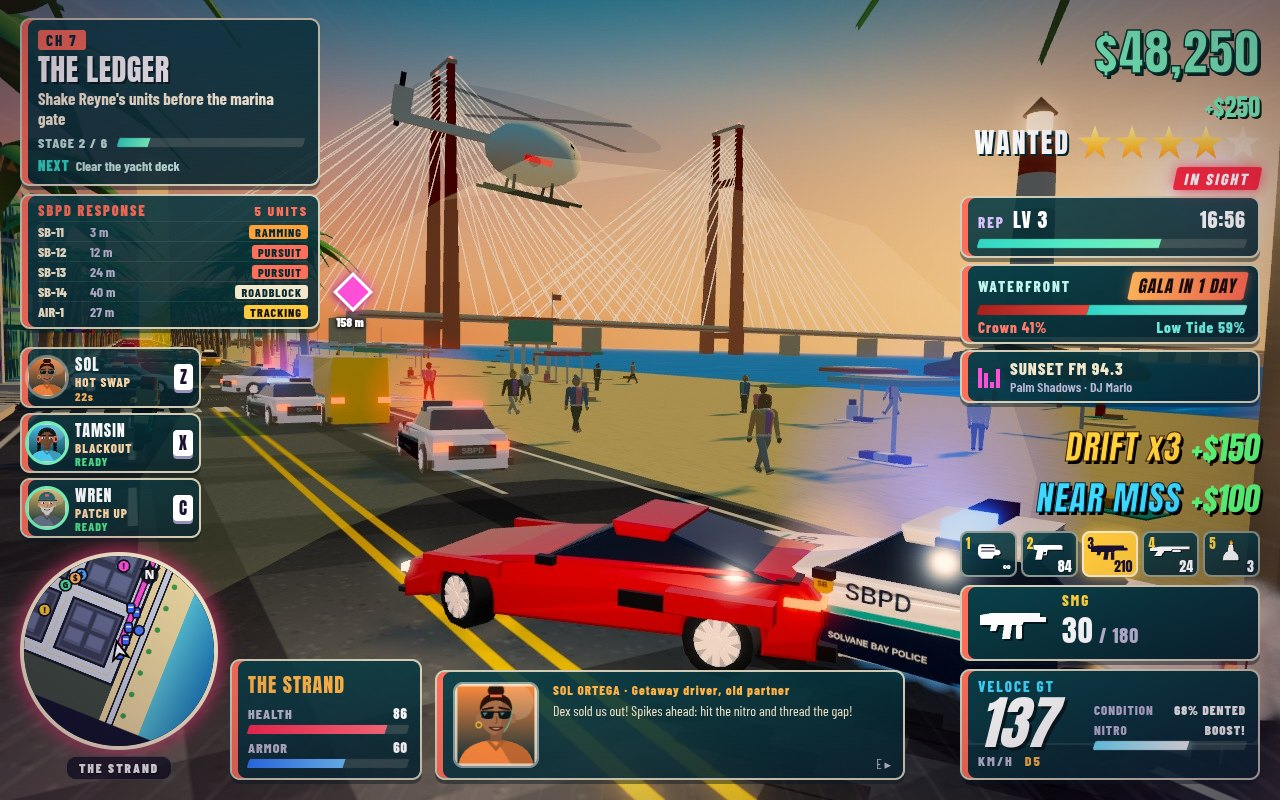
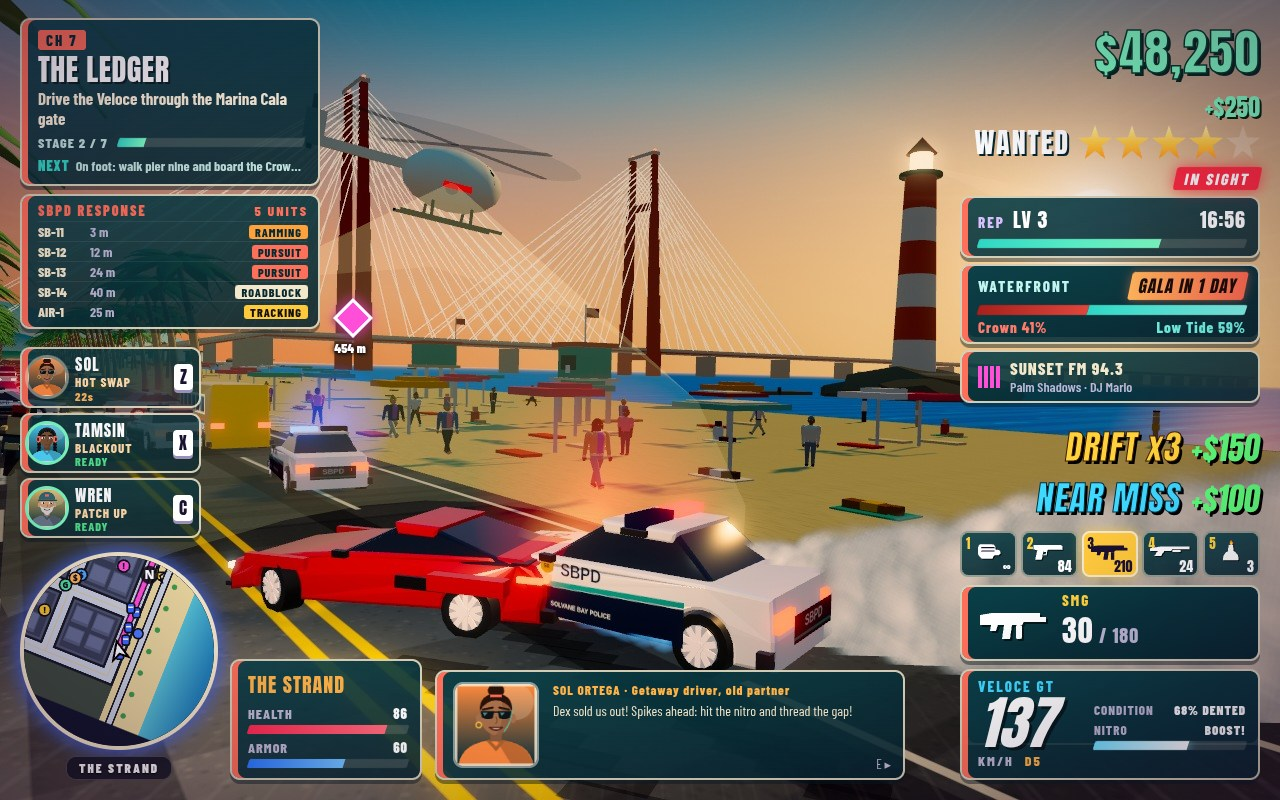
Fixes: cover restaged so the ramming SBPD cruiser is fully clear of the HUD cards, visible translucent tyre smoke off the drifting Veloce, lifeguard towers and umbrella clusters close to the Strand road, objective text matches the real chapter 7 stage, Brandt's Veloce is red in the story as on the c

diff --git a/game/src/shots/screenshotScenes.js b/game/src/shots/screenshotScenes.js
@@ -61,25 +61,25 @@ function chase(api) {
   // beach-goers on the sand turning to watch
   for (const [u, v, yw] of [[14, 16, -1.2], [22, 22, -1.6], [30, 14, -0.9], [18, 28, -1.9], [40, 24, -1.4], [8, 20, -1.0], [48, 32, -1.7]]) { const [x, z] = T(u, v), a = createActor('ped', x, z, randomStyle(rnd), { yaw: yw }); animateWalk(a.mesh, x * 0.7, u % 3 ? 0 : 0.6, false); a.mesh.position.set(x, 0, z); a.mesh.rotation.y = yw; }
   // camera low beside and behind the left rear, looking north-east so the car crosses the frame against the sea and the Causeway
-  const [px, pz] = T(-7.4, -3.2), [lx, lz] = T(20, 14.6), camY = 3.1;
+  const [px, pz] = T(-10.6, -3.0), [lx, lz] = T(20, 21.5), camY = 3.4;
   thinPalms(px, pz, 10, 62, 10);
   // AIR-1 side-on in open sky between the city and the first pylon, its searchlight on the car
   { const b = 25 * Math.PI / 180, d = 36, hx = px + Math.sin(b) * d, hz = pz - Math.cos(b) * d; G.heli = createHeli(hx, hz); G.heli.y = 11.5; G.heli.mesh.position.set(hx, 11.5, hz);
     G.heli.mesh.rotation.order = 'YXZ'; G.heli.mesh.rotation.set(0.14, Math.PI - (b + 1.35), 0.16); G.heli.rotor.rotation.y = 0.5; placeCone(G.heli, car.x, car.z); } G.shotLock = true;
-  { const { x, z } = MARINA_GATE; addMarker({ x, z, kind: 'obj', label: 'Marina gate', color: 0xffd23c, auto: false }); } setStars(4); G.wanted.heat = 4.3; fakeMission(6, 1, 'Shake Reyne\'s units before the marina gate', 0);
+  { const { x, z } = MARINA_GATE; addMarker({ x, z, kind: 'obj', label: 'Marina gate', color: 0xffd23c, auto: false }); } setStars(4); G.wanted.heat = 4.3; fakeMission(6, 1, MISSIONS[6].stages[1].text, 0);
   for (const c of G.cars) { c.mesh.position.set(c.x, 0, c.z); c.mesh.rotation.y = c.heading; for (const w of c.mesh.userData.fw || []) w.rotation.y = c.steerA * 0.9; }
   updateSirens(0.1); updateLineOfSight(1);
   // the drift so far: twin skid marks curving in from the right behind the rear wheels; tyre smoke rolls off away from the camera
   for (let k = 0; k < 60; k++) { const q = k / 60, u = -2 - q * 30, v = 1.4 + q * q * 3.5, h = Math.PI / 2 + DRIFT * (1 - q) - 0.15 * q; for (const sg of [-1, 1]) { const [x, z] = T(u + Math.cos(h) * sg * 0.85, v - Math.sin(h) * sg * 0.85); skidMark(x, z, H(h)); } }
   const sn = Math.sin(car.heading), cs = Math.cos(car.heading), rx = car.x - sn * 1.45, rz = car.z - cs * 1.45;
-  for (let k = 0; k < 8; k++) { const back = k * 0.55; particle({ x: rx + 1.2 + back * 0.5, y: 0.3 + k * 0.06, z: rz + 0.8 + back, life: 1.4, size: 0.8 + k * 0.2, color: 0xfff0e4, hdr: 1.3, op: 0.3 - k * 0.025, tex: 'puff' }); }
+  for (let k = 0; k < 12; k++) { const back = k * 0.6; particle({ x: rx + 1.3 + back * 0.55, y: 0.35 + k * 0.08, z: rz + 1.0 + back, life: 1.4, size: 1.1 + k * 0.3, color: 0xfff4ec, hdr: 1.35, op: 0.42 - k * 0.028, tex: 'puff' }); }
   for (let k = 0; k < 6; k++) particle({ x: car.x - sn * 2.55, y: 0.33, z: car.z - cs * 2.55 + k * 0.35, life: 0.3, size: 0.8 - k * 0.08, color: 0x7fc8ff, add: true, hdr: 1.6 });
   // the ram: sparks where the cruiser's push bar meets the right rear quarter
   { const hx = rx + 0.9, hz = rz + 0.4; sparks(hx, 0.7, hz, 30); sparks(hx, 0.55, hz, 16); particle({ x: hx, y: 0.75, z: hz, life: 1, size: 1.8, color: 0xffc070, add: true }); }
   G.money = 48000; api.updateHud(0.016); popup('DRIFT x3', 150, 'drift'); popup('NEAR MISS', 100, 'near');
   say({ who: 'sol', text: 'Dex sold us out! Spikes ahead: hit the nitro and thread the gap!' }); typed();
   G.exposure = 1.05; if (G.post) Object.assign(G.post.params, { bloom: 0.3, threshold: 1.25, vignette: 0.3 });
-  G.shotCam = { pos: [px, camY, pz], look: [lx, 0.9, lz], fov: 54, roll: 0.025 };
+  G.shotCam = { pos: [px, camY, pz], look: [lx, 1.9, lz], fov: 54, roll: 0.025 };
   const rim = new THREE.PointLight(0xffe0c0, 50, 14, 1.6); { const [x, z] = T(-3, -2); rim.position.set(x, 3.2, z); } G.scene.add(rim);
   finish(api); }
 // Chapter 7, The Ledger: Nico runs the stolen ledger out of Marina Cala in the Skipjack speedboat, banking hard with a

diff --git a/game/src/missions/storyMissions.js b/game/src/missions/storyMissions.js
@@ -34,8 +34,8 @@ export const MISSIONS = [
     stages: [{ type: 'goto', at: MARINA, r: 40, text: "Meet Dex's buyer at the Marina Cala docks" }, { type: 'kill', at: MARINA, count: 5, gang: 'brandt', text: "It's a setup: survive Brandt's ambush" }, { type: 'escape', stars: 4, text: "Reyne's units are on the pier: lose 4 stars" }, { type: 'goto', at: corner(1, 4, 1, 1), r: 7, car: 'any', text: 'Reach the Point Wren safehouse' }],
     outro: [{ who: 'dex', text: 'Nothing personal, Nico. Brandt offered a seat at the Gala. You offered a bad week.' }, { who: 'sol', text: "Dex just sold you for a dinner invitation. We still have four days. Let's make them count." }] },
   { id: 'm7', chapter: 7, title: 'THE LEDGER', giver: 'tamsin', start: corner(2, 2, 1, 1), reward: { money: 4200, xp: 620 },
-    intro: [{ who: 'tamsin', text: "Brandt writes every bribe down. Old habit. The ledger lives in the safe on his yacht, the Crown Jewel, at Marina Cala." }, { who: 'wren', text: 'His blue Veloce GT has a dock pass on the dash. Guards wave it straight through.' }, { who: 'sol', text: 'I will wait at the Point Wren light. Come by sea, the roads will be crawling.' }, { who: 'nico', text: 'Steal his car, rob his boat, borrow his speedboat. Gentle start to the week.' }],
-    stages: [{ type: 'steal', key: 'veloce', tint: 0x2f7fd8, at: { ...P(4, 4, 5.4, 22), h: 0 }, text: "Steal Brandt's blue Veloce GT", stars: 1 }, { type: 'goto', at: MARINA_GATE, r: 10, car: 'mission', text: 'Drive the Veloce through the Marina Cala gate' },
+    intro: [{ who: 'tamsin', text: "Brandt writes every bribe down. Old habit. The ledger lives in the safe on his yacht, the Crown Jewel, at Marina Cala." }, { who: 'wren', text: 'His red Veloce GT has a dock pass on the dash. Guards wave it straight through.' }, { who: 'sol', text: 'I will wait at the Point Wren light. Come by sea, the roads will be crawling.' }, { who: 'nico', text: 'Steal his car, rob his boat, borrow his speedboat. Gentle start to the week.' }],
+    stages: [{ type: 'steal', key: 'veloce', tint: 0xd01020, at: { ...P(4, 4, 5.4, 22), h: 0 }, text: "Steal Brandt's red Veloce GT", stars: 1 }, { type: 'goto', at: MARINA_GATE, r: 10, car: 'mission', text: 'Drive the Veloce through the Marina Cala gate' },
       { type: 'goto', at: GANGWAY, r: 3, foot: true, text: 'On foot: walk pier nine and board the Crown Jewel' }, { type: 'kill', at: YACHT, spots: GUARD_SPOTS, count: 4, gang: 'brandt', text: "Take out Brandt's deck guards" },
       { type: 'collect', pts: [SAFE], text: 'Crack the safe on the aft deck: grab the ledger' }, { type: 'boat', stars: 3, text: 'Alarm! Jump in the speedboat at the end of pier nine', ...boardSpeedboat },
       { type: 'goto', at: DROP, r: 10, car: 'boat', text: 'Outrun the harbour launches: run the ledger to Sol at the Point Wren light', ...boatEscape }],

diff --git a/game/src/vehicles/vehicleModels.js b/game/src/vehicles/vehicleModels.js
@@ -170,6 +170,20 @@ function sportRear(grp, key) {
     grp.add(f);
   }
 }
+// TIDE BUS minibus detail: a band of side windows with cream pillars, lit amber TIDE BUS destination boards front and
+// rear, and a teal waistline stripe.
+let busWinTex = null, busBoardTex = null;
+function busDetail(grp, t) {
+  busWinTex ||= canvasTex(512, 64, (g) => { g.fillStyle = '#f6ead2'; g.fillRect(0, 0, 512, 64); for (let k = 0; k < 6; k++) { const gr = g.createLinearGradient(0, 4, 0, 60); gr.addColorStop(0, '#2c6f80'); gr.addColorStop(1, '#0f3440'); g.fillStyle = gr; g.fillRect(8 + k * 84, 6, 74, 52); g.fillStyle = 'rgba(255,255,255,0.25)'; g.fillRect(14 + k * 84, 10, 20, 44); } });
+  busBoardTex ||= canvasTex(256, 56, (g) => { g.fillStyle = '#141414'; g.fillRect(0, 0, 256, 56); g.fillStyle = '#ffb21c'; g.font = 'bold 40px Arial Black, Arial, sans-serif'; g.textAlign = 'center'; g.textBaseline = 'middle'; g.fillText('TIDE BUS', 128, 30); });
+  const win = new THREE.MeshBasicMaterial({ map: busWinTex }), board = new THREE.MeshBasicMaterial({ map: busBoardTex, toneMapped: false }), stripe = new THREE.MeshLambertMaterial({ color: 0x1fa8a0 });
+  for (const sd of [-1, 1]) {
+    const w = new THREE.Mesh(new THREE.PlaneGeometry(5.3, 0.72), win); w.position.set(sd * (t.wid / 2 + 0.025), 1.78, -0.35); w.rotation.y = sd * Math.PI / 2; grp.add(w);
+    const s = new THREE.Mesh(new THREE.PlaneGeometry(6.3, 0.2), stripe); s.position.set(sd * (t.wid / 2 + 0.025), 0.62, 0); s.rotation.y = sd * Math.PI / 2; grp.add(s);
+  }
+  const f = new THREE.Mesh(new THREE.PlaneGeometry(1.5, 0.33), board); f.position.set(0, 2.2, 2.93); f.rotation.x = -0.18; grp.add(f);
+  const r = new THREE.Mesh(new THREE.PlaneGeometry(1.3, 0.3), board); r.position.set(0, 2.1, -3.27); r.rotation.y = Math.PI; grp.add(r);
+}
 export function buildCarMesh(key, tint) {
   const g = geoCache[key] || (geoCache[key] = build(key)); const t = CAR_TYPES[key], m = sharedMats();
   const c = t.police ? t.tint : key === 'tupelo' || key === 'tidebus' ? t.tint : tint ?? t.tint;
@@ -190,6 +204,7 @@ export function buildCarMesh(key, tint) {
     grp.userData.bar = { r: bar(0xff3040, -0.38), b: bar(0x4080ff, 0.38) };
   }
   if (key === 'tidebus') { const bm = new THREE.MeshBasicMaterial({ map: busTex() }); for (const sd of [-1, 1]) { const b = new THREE.Mesh(new THREE.PlaneGeometry(5.2, 0.5), bm); b.position.set(sd * (t.wid / 2 + 0.02), 1.0, -0.3); b.rotation.y = sd * Math.PI / 2; grp.add(b); } }
+  if (key === 'tidebus') busDetail(grp, t);
   if (key === 'tupelo') { const s = new THREE.Mesh(new THREE.BoxGeometry(0.8, 0.26, 0.3), new THREE.MeshBasicMaterial({ map: taxiTex() })); s.position.set(0, t.roof + 0.18, -0.3); grp.add(s); }
   return grp;
 }

diff --git a/game/src/world/beachAndSea.js b/game/src/world/beachAndSea.js
@@ -21,6 +21,13 @@ export function buildBeachAndSea(scene, rng) {
     pushBox(B, x, 0, z, 0.12, 2.4, 0.12, 0xeeeeee); pushBox(B, x, 2.3, z, 2.8, 0.3, 2.8, c); pushBox(B, x + 2.2, 0.05, z, 0.9, 0.12, 2.0, 0xffe9c0); }
   for (let k = 0; k < 3; k++) { const x = lineCoord(1) + k * 90, z = lineCoord(0) + 20;
     for (const dx of [-8, 8]) pushBox(B, x + dx, 0, z, 1.2, 30, 1.2, 0xe8a030); pushBox(B, x, 28, z, 20, 1.5, 1.5, 0xe8a030); pushBox(B, x, 26, z + 14, 1.5, 1.5, 28, 0xe8a030); }
+  // lifeguard towers (teal hut, coral roof, on stilts with a ramp) and umbrella clusters close to the Strand road
+  for (const z of [232, 96, -30]) { const x = HALF + 25;
+    for (const dx of [-1.1, 1.1]) for (const dz of [-1.1, 1.1]) pushBox(B, x + dx, 0, z + dz, 0.25, 2.6, 0.25, 0xf6ead2);
+    pushBox(B, x, 2.6, z, 3.2, 0.2, 3.2, 0xf6ead2); pushBox(B, x, 2.8, z, 2.4, 1.9, 2.4, 0x2fb8a8); pushBox(B, x - 1.21, 3.3, z, 0.02, 0.9, 1.7, 0x17404a); pushBox(B, x, 4.7, z, 3.0, 0.3, 3.0, 0xe8604c);
+    pushBox(B, x - 1.25, 3.1, z, 0.03, 0.5, 0.5, 0xffffff); pushBox(B, x + 2.8, 0, z, 3.2, 0.15, 1.0, 0xc8a070); pushBox(B, x, 5.0, z, 0.08, 2.4, 0.08, 0xffffff); pushBox(B, x + 0.5, 6.6, z, 1.0, 0.6, 0.05, 0xe8604c); }
+  [[14, 246, 0xff5a7a], [19, 240, 0x2fc4b2], [12, 236, 0xffb02e], [30, 250, 0xffffff], [21, 222, 0xff5a7a], [15, 214, 0x2fc4b2], [32, 238, 0xffb02e], [11, 204, 0xff5a7a]].forEach(([dx, z, c]) => { const x = HALF + dx;
+    pushBox(B, x, 0, z, 0.12, 2.4, 0.12, 0xeeeeee); pushBox(B, x, 2.3, z, 2.8, 0.3, 2.8, c); pushBox(B, x + 0.4, 2.6, z, 1.6, 0.2, 1.6, c); pushBox(B, x + 2.0, 0.05, z - 0.6, 0.9, 0.12, 2.0, z % 2 ? 0x2fb8a8 : 0xffe9c0); pushBox(B, x - 1.9, 0.05, z + 0.4, 0.9, 0.12, 2.0, 0xe8604c); });
   const m = new THREE.Mesh(toGeometry(B), new THREE.MeshLambertMaterial({ vertexColors: true })); m.castShadow = true; scene.add(m);
   // Smooth layered coastal hills: rounded ridgelines (sum of sines), pale far layers fading into the haze.
   const LAYERS = [[860, 330, 0x9cc8c4, 0xf2cdb0], [740, 250, 0x72aeb0, 0xdcb8a0], [650, 175, 0x3f8890, 0xa8b4a4], [590, 105, 0x2f7a62, 0x7fa58c]] // teal ridgelines into warm haze;

diff --git a/game/src/world/landmarks.js b/game/src/world/landmarks.js
@@ -113,13 +113,13 @@ function lagoonMarket(scene, B, rng) {
   water.position.set(x, 0.12, z); scene.add(water);
   for (const [dx, dz, w, d] of [[0, -24.5, 50, 1], [0, 24.5, 50, 1], [-24.5, 0, 1, 50], [24.5, 0, 1, 50]]) pushBox(B, x + dx, 0, z + dz, w, 0.7, d, 0xd8c8a6); // stone rim
   addBox({ x0: x - 25, x1: x + 25, z0: z - 25, z1: z + 25, h: 1.2 });
-  const STRIPES = [[0xe8604c, 0xfff4e0], [0x2fb8a8, 0xfff4e0], [0xf2b33a, 0xfff4e0], [0x3a8fd0, 0xfff4e0]], WALLS = [0xf7c59f, 0x8fd3c8, 0xf4a6a0, 0xf6e3b4, 0xb8e0b0, 0xfff4e6];
+  const STRIPES = [[0xe8604c, 0xfff4e0, 0x2fb8a8], [0x2fb8a8, 0xfff4e0, 0xe8604c], [0xe8604c, 0x2fb8a8, 0xfff4e0], [0x2fb8a8, 0xe8604c, 0xfff4e0]], WALLS = [0xf7c59f, 0x8fd3c8, 0xf4a6a0, 0xf6e3b4, 0xb8e0b0, 0xfff4e6];
   const stalls = [[-14, -13], [0, -15], [14, -13], [-14, 6], [14, 6], [0, 12]];
   stalls.forEach(([dx, dz], i) => {
-    const cx = x + dx, cz = z + dz, [a, b] = STRIPES[i % 4];
+    const cx = x + dx, cz = z + dz, [a, b, v] = STRIPES[i % 4];
     for (const sx of [-3.6, 3.6]) for (const sz of [-2.6, 2.6]) pushBox(B, cx + sx, 0, cz + sz, 0.35, 1.6, 0.35, 0x7a5a3a); // stilts
     pushBox(B, cx, 1.5, cz, 8.4, 0.3, 6.4, 0xa07a50); pushBox(B, cx, 1.8, cz + 1, 6.4, 2.6, 3.6, WALLS[i % WALLS.length]); pushBox(B, cx, 1.8, cz - 1.9, 6.4, 1.0, 1.6, 0xe9d8b8); // deck, hut, counter
-    for (let k = 0; k < 8; k++) pushBox(B, cx - 3.5 + k + 0.5, 4.4 - Math.abs(k - 3.5) * 0.08, cz - 0.4, 1, 0.22, 7.2, k % 2 ? b : a); // striped awning
+    for (let k = 0; k < 8; k++) { pushBox(B, cx - 3.5 + k + 0.5, 4.4 - Math.abs(k - 3.5) * 0.08, cz - 0.4, 1, 0.22, 7.2, k % 2 ? b : a); pushBox(B, cx - 3.5 + k + 0.5, 3.75, cz - 4.05, 1, 0.68 - (k % 2) * 0.18, 0.08, k % 2 ? v : a); } // striped coral / cream / teal awning with a scalloped front valance
     for (let k = 0; k < 3; k++) pushBox(B, cx - 2 + k * 2, 2.8, cz - 2.2, 0.9, 0.5, 0.9, [0xff8a3d, 0x7ed68a, 0xffd23c][(i + k) % 3]); // produce crates
   });
   // boardwalks from the street into the market, and a rowboat or two
